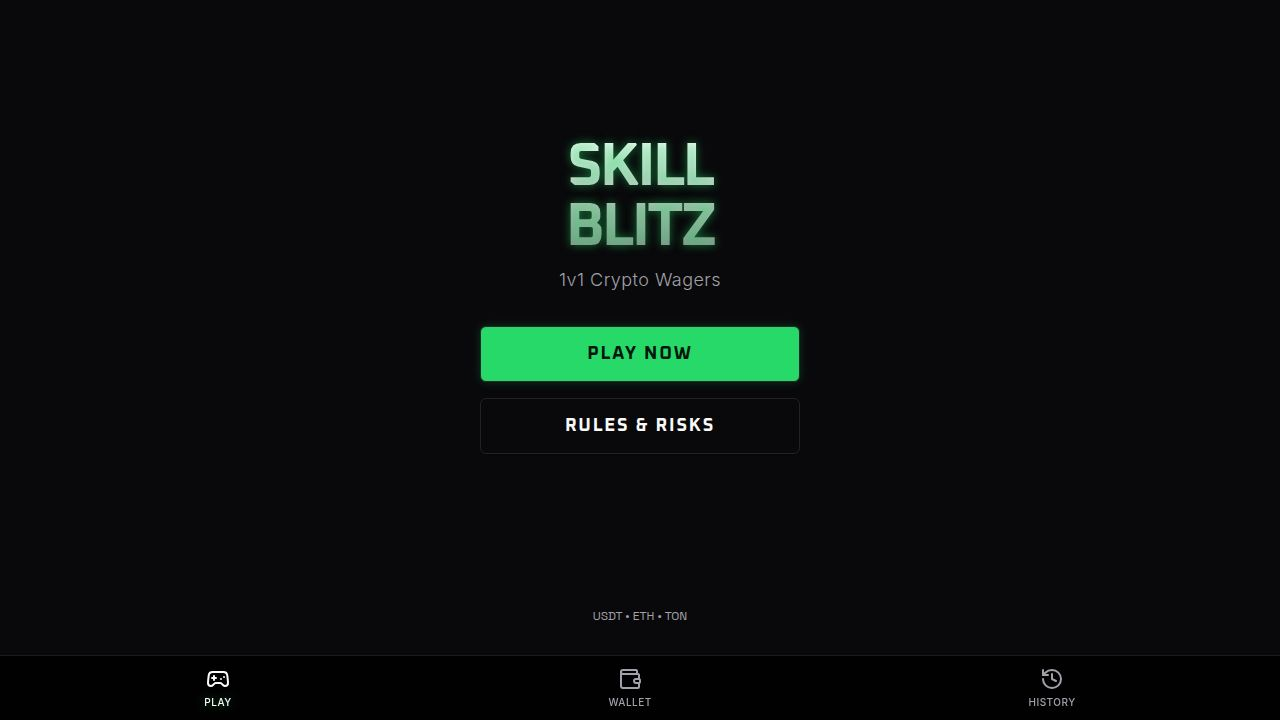
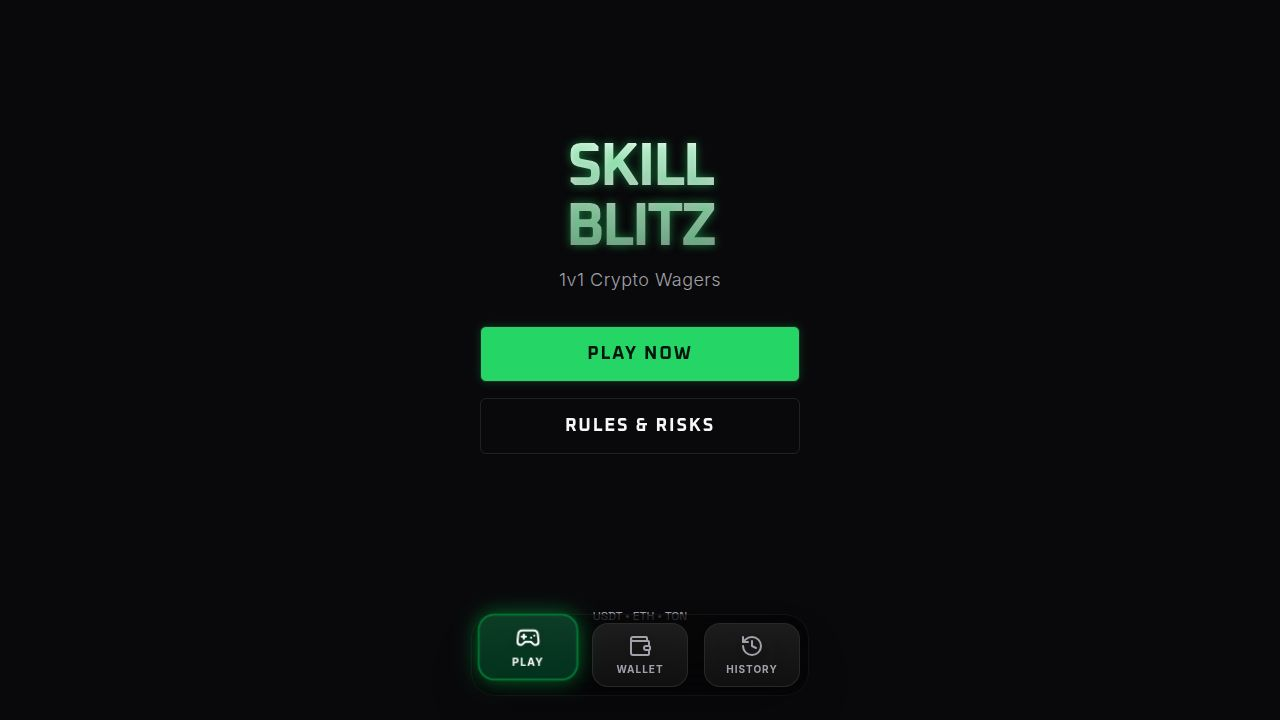
Enhance bottom navigation bar with modern design and animations
Refactor `BottomNav.tsx` to implement a floating, glassmorphism-styled navigation bar with animated "pill" tabs using `framer-motion` and Tailwind CSS.

Replit-Commit-Author: Agent
Replit-Commit-Session-Id: 280d85b1-a461-47bc-9a92-12e754530513
Replit-Commit-Checkpoint-Type: full_checkpoint
Replit-Commit-Event-Id: ad4abbbb-ebbf-4bfb-9116-3c96daf6a8ac
Replit-Commit-Screenshot-Url: https://storage.googleapis.com/screenshot-production-us-central1/e40704a0-e6e0-48db-a69e-6cdf3f1904ce/280d85b1-a461-47bc-9a92-12e754530513/UNrYPMH
Replit-Helium-Checkpoint-Created: true

diff --git a/client/src/components/layout/BottomNav.tsx b/client/src/components/layout/BottomNav.tsx
@@ -1,7 +1,7 @@
 import { Link, useLocation } from "wouter";
-import { Gamepad2, Wallet, History, Home } from "lucide-react";
+import { Gamepad2, Wallet, History } from "lucide-react";
 import { cn } from "@/lib/utils";
-import { motion, AnimatePresence } from "framer-motion";
+import { motion } from "framer-motion";
 
 export function BottomNav() {
   const [location] = useLocation();
@@ -16,86 +16,98 @@ export function BottomNav() {
       path: '/games', 
       label: 'Play', 
       icon: Gamepad2,
-      activeColor: 'text-green-400'
+      color: 'from-green-500/20 to-emerald-500/20',
+      borderColor: 'border-green-500/50',
+      glowColor: 'shadow-green-500/50',
+      iconColor: 'text-green-400'
     },
     { 
       path: '/wallet', 
       label: 'Wallet', 
       icon: Wallet,
-      activeColor: 'text-blue-400'
+      color: 'from-blue-500/20 to-cyan-500/20',
+      borderColor: 'border-blue-500/50',
+      glowColor: 'shadow-blue-500/50',
+      iconColor: 'text-blue-400'
     },
     { 
       path: '/history', 
       label: 'History', 
       icon: History,
-      activeColor: 'text-purple-400'
+      color: 'from-purple-500/20 to-pink-500/20',
+      borderColor: 'border-purple-500/50',
+      glowColor: 'shadow-purple-500/50',
+      iconColor: 'text-purple-400'
     }
   ];
 
   return (
-    <div className="fixed bottom-6 left-0 right-0 z-50 px-4 flex justify-center pointer-events-none">
-      <nav className="pointer-events-auto flex items-center gap-1 p-2 rounded-2xl bg-black/60 backdrop-blur-2xl border border-white/10 shadow-[0_8px_32px_rgba(0,0,0,0.5)] ring-1 ring-white/5 relative overflow-hidden">
-        {/* Glossy overlay effect */}
-        <div className="absolute inset-0 bg-gradient-to-b from-white/5 to-transparent pointer-events-none" />
-        
+    <div className="fixed bottom-6 left-0 right-0 z-50 px-6 flex justify-center pointer-events-none">
+      <nav className="pointer-events-auto flex items-center gap-4 p-2 rounded-3xl bg-black/40 backdrop-blur-xl border border-white/5 shadow-2xl relative">
         {navItems.map((item) => {
           const active = isActive(item.path);
           
           return (
             <Link key={item.path} href={item.path}>
-              <a className="relative group px-6 py-3 flex flex-col items-center justify-center cursor-pointer min-w-[80px]">
+              <a className="relative group">
+                <motion.div
+                  className={cn(
+                    "relative w-24 h-16 rounded-2xl flex flex-col items-center justify-center gap-1 transition-all duration-300",
+                    "border backdrop-blur-md shadow-lg cursor-pointer overflow-hidden",
+                    active 
+                      ? cn("bg-gradient-to-br border-2", item.color, item.borderColor, item.glowColor, "shadow-[0_0_20px_rgba(0,0,0,0.5)]") 
+                      : "bg-white/5 border-white/10 hover:bg-white/10"
+                  )}
+                  animate={{ 
+                    y: active ? -8 : 0,
+                    scale: active ? 1.05 : 1,
+                  }}
+                  whileHover={{ 
+                    y: active ? -10 : -4,
+                    scale: 1.05 
+                  }}
+                  whileTap={{ scale: 0.95 }}
+                  transition={{ type: "spring", stiffness: 300, damping: 20 }}
+                >
+                  {/* Glossy sheen */}
+                  <div className="absolute inset-0 bg-gradient-to-b from-white/10 to-transparent opacity-50 pointer-events-none" />
+
+                  {/* Icon */}
+                  <item.icon className={cn(
+                    "h-6 w-6 z-10 drop-shadow-md transition-colors duration-300",
+                    active ? "text-white" : "text-muted-foreground group-hover:text-white"
+                  )} />
+                  
+                  {/* Label */}
+                  <span className={cn(
+                    "text-[10px] font-bold uppercase tracking-widest z-10 transition-colors duration-300",
+                    active ? "text-white" : "text-muted-foreground group-hover:text-white"
+                  )}>
+                    {item.label}
+                  </span>
+
+                  {/* Active Glow Background Effect */}
+                  {active && (
+                    <motion.div
+                      layoutId="active-glow"
+                      className={cn("absolute inset-0 opacity-30 bg-gradient-to-t", item.color)}
+                      initial={{ opacity: 0 }}
+                      animate={{ opacity: 0.3 }}
+                    />
+                  )}
+                </motion.div>
+                
+                {/* Reflection/Shadow underneath when lifted */}
                 {active && (
-                  <motion.div
-                    layoutId="nav-pill"
-                    className="absolute inset-0 bg-white/10 rounded-xl"
-                    initial={false}
-                    transition={{ type: "spring", stiffness: 400, damping: 30 }}
+                  <motion.div 
+                    initial={{ opacity: 0, scale: 0.5 }}
+                    animate={{ opacity: 1, scale: 1 }}
+                    className={cn(
+                      "absolute -bottom-4 left-1/2 -translate-x-1/2 w-16 h-2 rounded-full blur-md opacity-50",
+                      item.iconColor.replace('text-', 'bg-')
+                    )}
                   />
                 )}
-                
-                <div className="relative z-10 flex flex-col items-center gap-1">
-                  <motion.div
-                    animate={{ 
-                      scale: active ? 1.1 : 1,
-                      y: active ? -2 : 0 
-                    }}
-                    whileHover={{ scale: 1.2 }}
-                    transition={{ type: "spring", stiffness: 400, damping: 17 }}
-                    className={cn(
-                      "relative",
-                      active ? item.activeColor : "text-muted-foreground group-hover:text-white"
-                    )}
-                  >
-                    <item.icon className={cn(
-                      "h-7 w-7 transition-all duration-300",
-                      active && "drop-shadow-[0_0_8px_rgba(255,255,255,0.3)]"
-                    )} />
-                    
-                    {/* Active dot */}
-                    {active && (
-                      <motion.div
-                        initial={{ scale: 0 }}
-                        animate={{ scale: 1 }}
-                        className={cn(
-                          "absolute -bottom-2 left-1/2 -translate-x-1/2 w-1 h-1 rounded-full bg-current shadow-[0_0_5px_currentColor]"
-                        )}
-                      />
-                    )}
-                  </motion.div>
-                  
-                  {active && (
-                    <motion.span
-                      initial={{ opacity: 0, y: 5 }}
-                      animate={{ opacity: 1, y: 0 }}
-                      className={cn(
-                        "text-[10px] font-bold uppercase tracking-wider mt-1",
-                        item.activeColor
-                      )}
-                    >
-                      {item.label}
-                    </motion.span>
-                  )}
-                </div>
               </a>
             </Link>
           );
